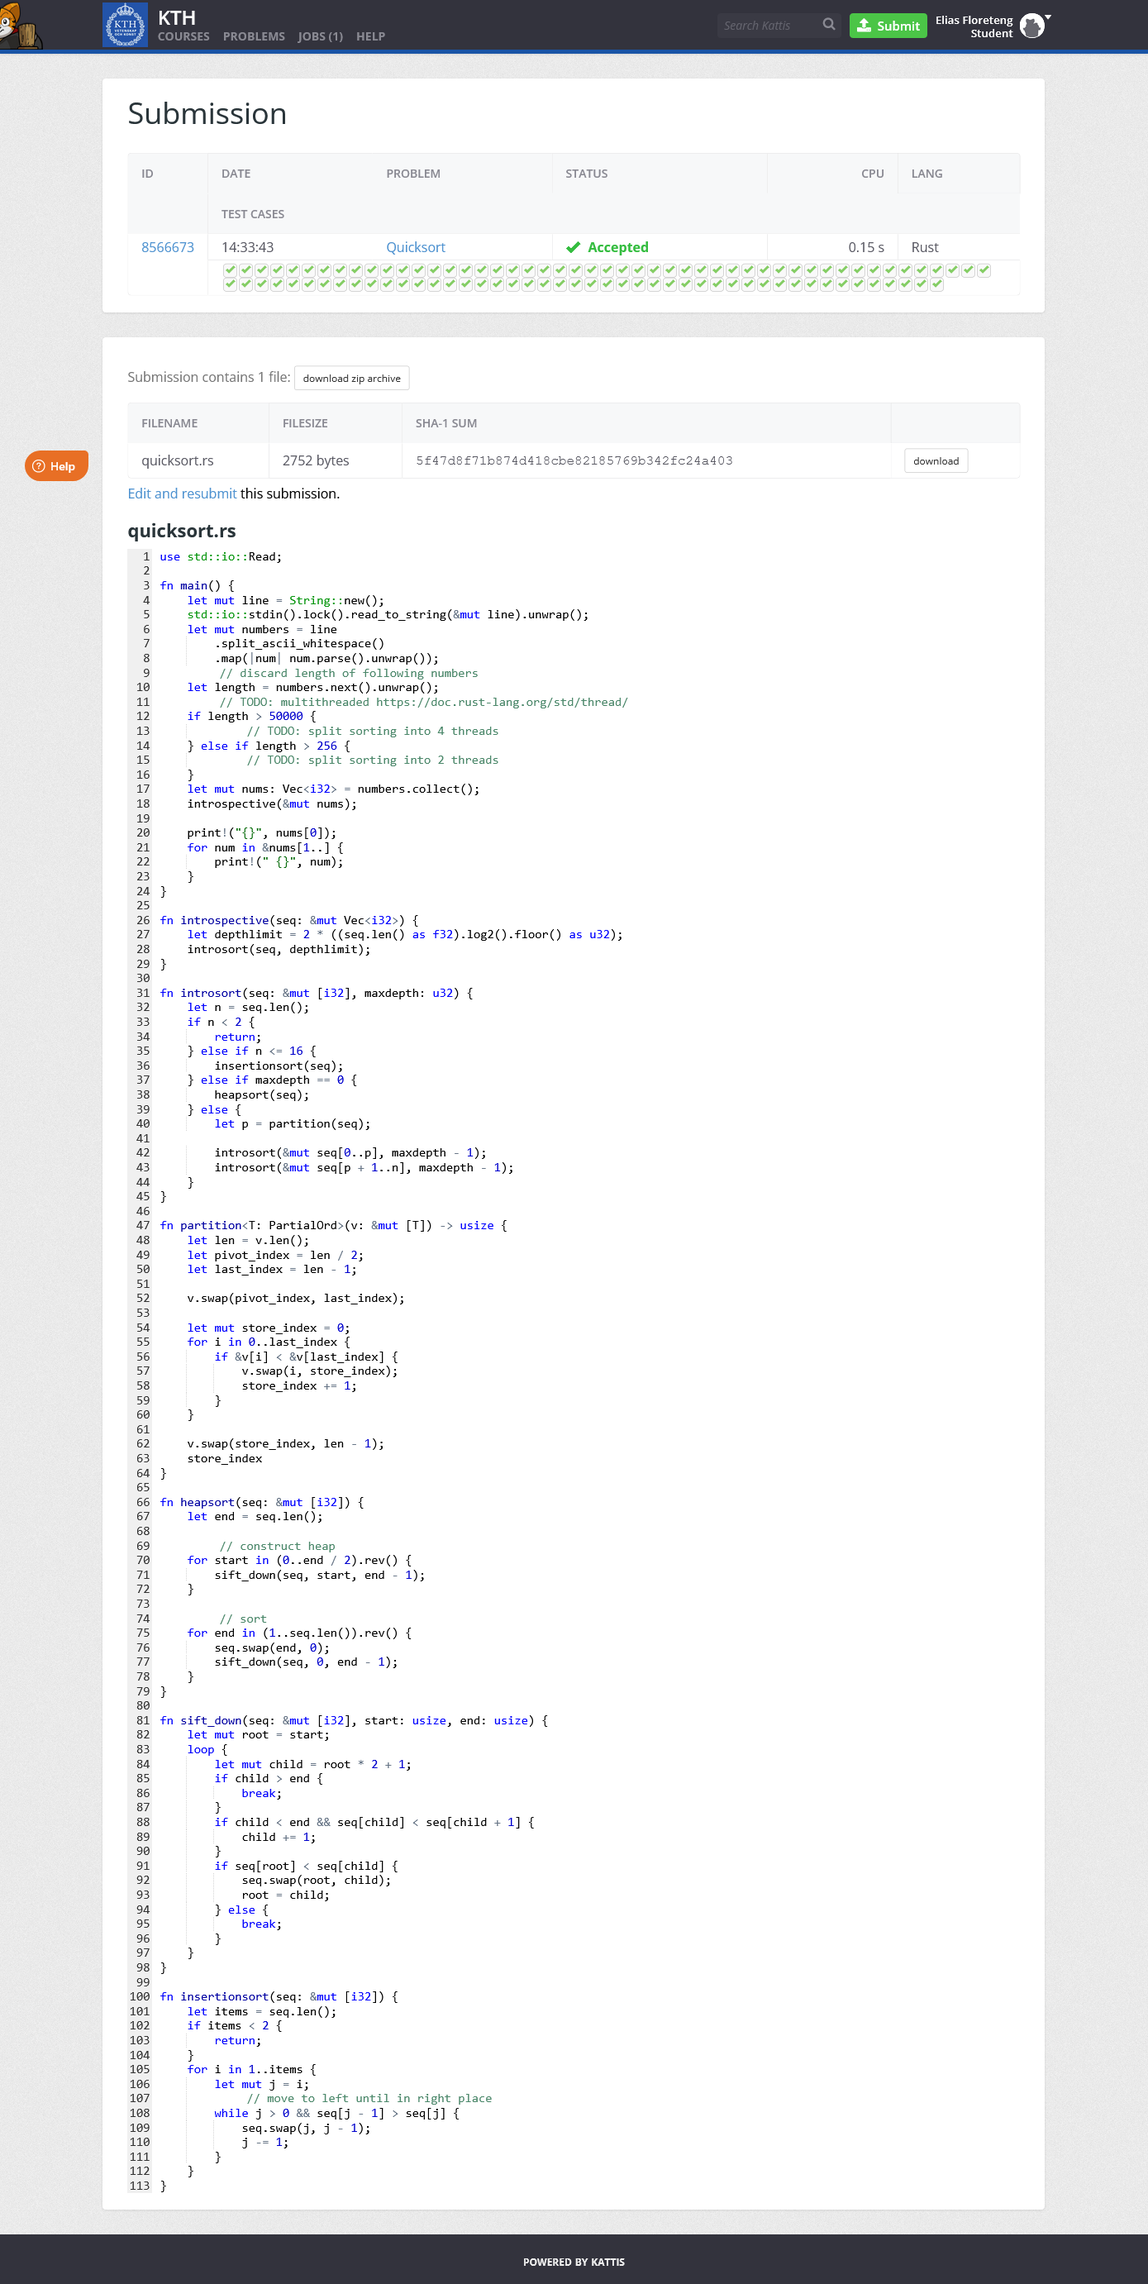
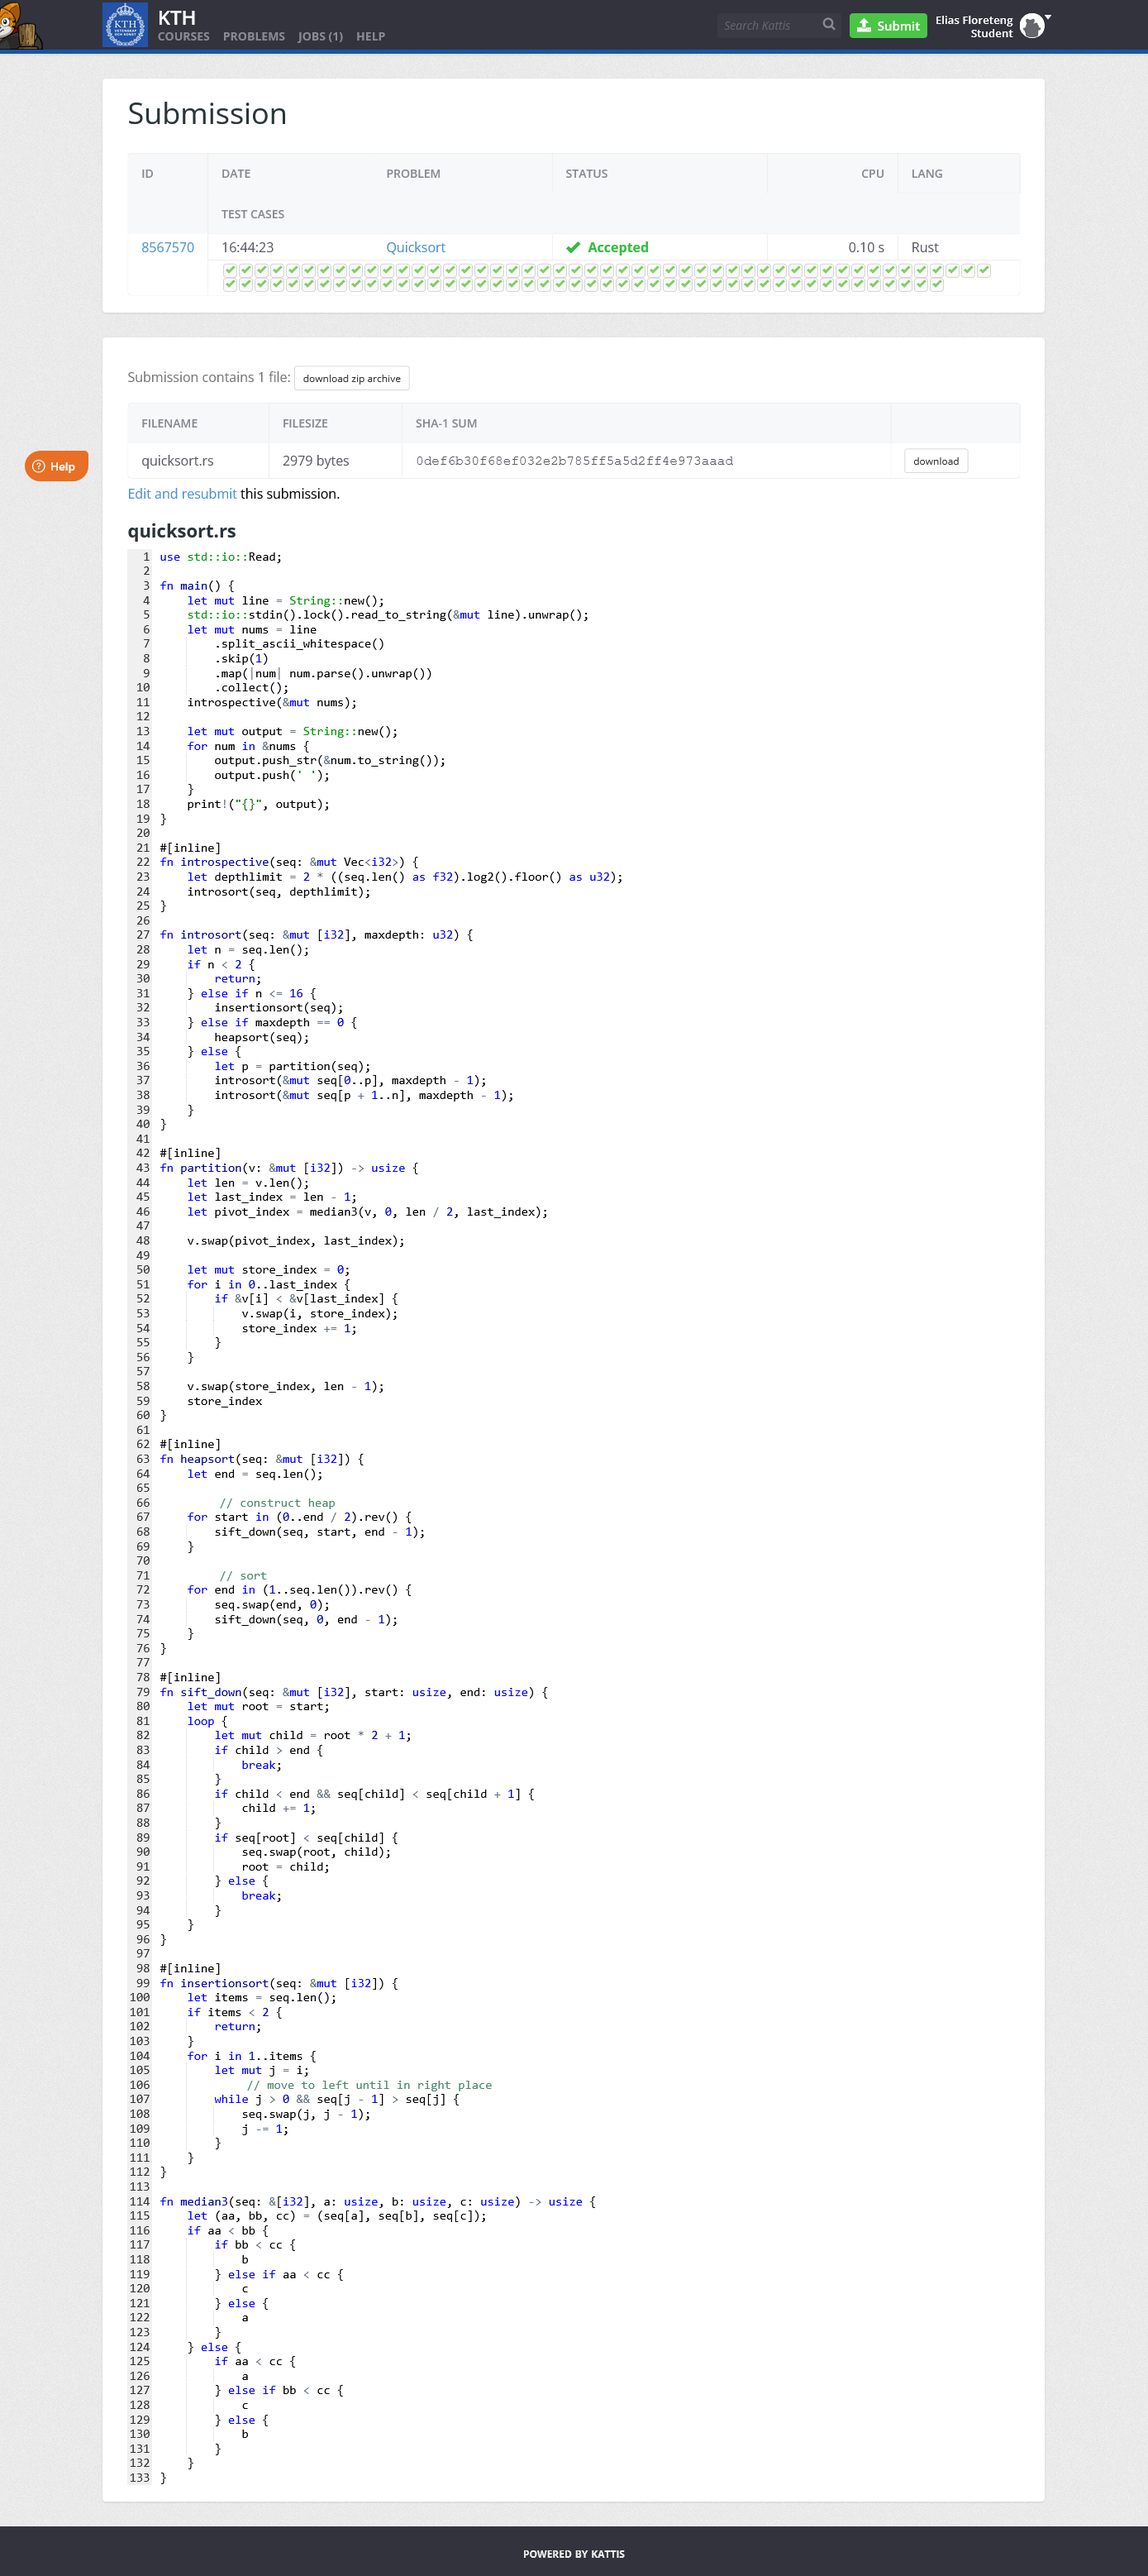
Faster 😎

diff --git a/src/main.rs b/src/main.rs
@@ -1,4 +1,4 @@
-use std::io::Read;
+use std::io::{Read, Write};
 
 fn main() {
     let mut line = String::new();
@@ -10,12 +10,10 @@ fn main() {
         .collect();
     introspective(&mut nums);
 
-    let mut output = String::new();
-    for num in &nums {
-        output.push_str(&num.to_string());
-        output.push(' ');
+    let out = std::io::stdout();
+    for num in nums {
+        out.lock().write_fmt(format_args!("{} ", num)).unwrap();
     }
-    print!("{}", output);
 }
 
 #[inline]
@@ -113,22 +111,12 @@ fn insertionsort(seq: &mut [i32]) {
 
 fn median3(seq: &[i32], a: usize, b: usize, c: usize) -> usize {
     let (aa, bb, cc) = (seq[a], seq[b], seq[c]);
-    if aa < bb {
-        if bb < cc {
-            b
-        } else if aa < cc {
-            c
-        } else {
-            a
-        }
+    if (aa > bb) ^ (aa > cc) {
+        a
+    } else if (bb < aa) ^ (bb < cc) {
+        b
     } else {
-        if aa < cc {
-            a
-        } else if bb < cc {
-            c
-        } else {
-            b
-        }
+        c
     }
 }
 
